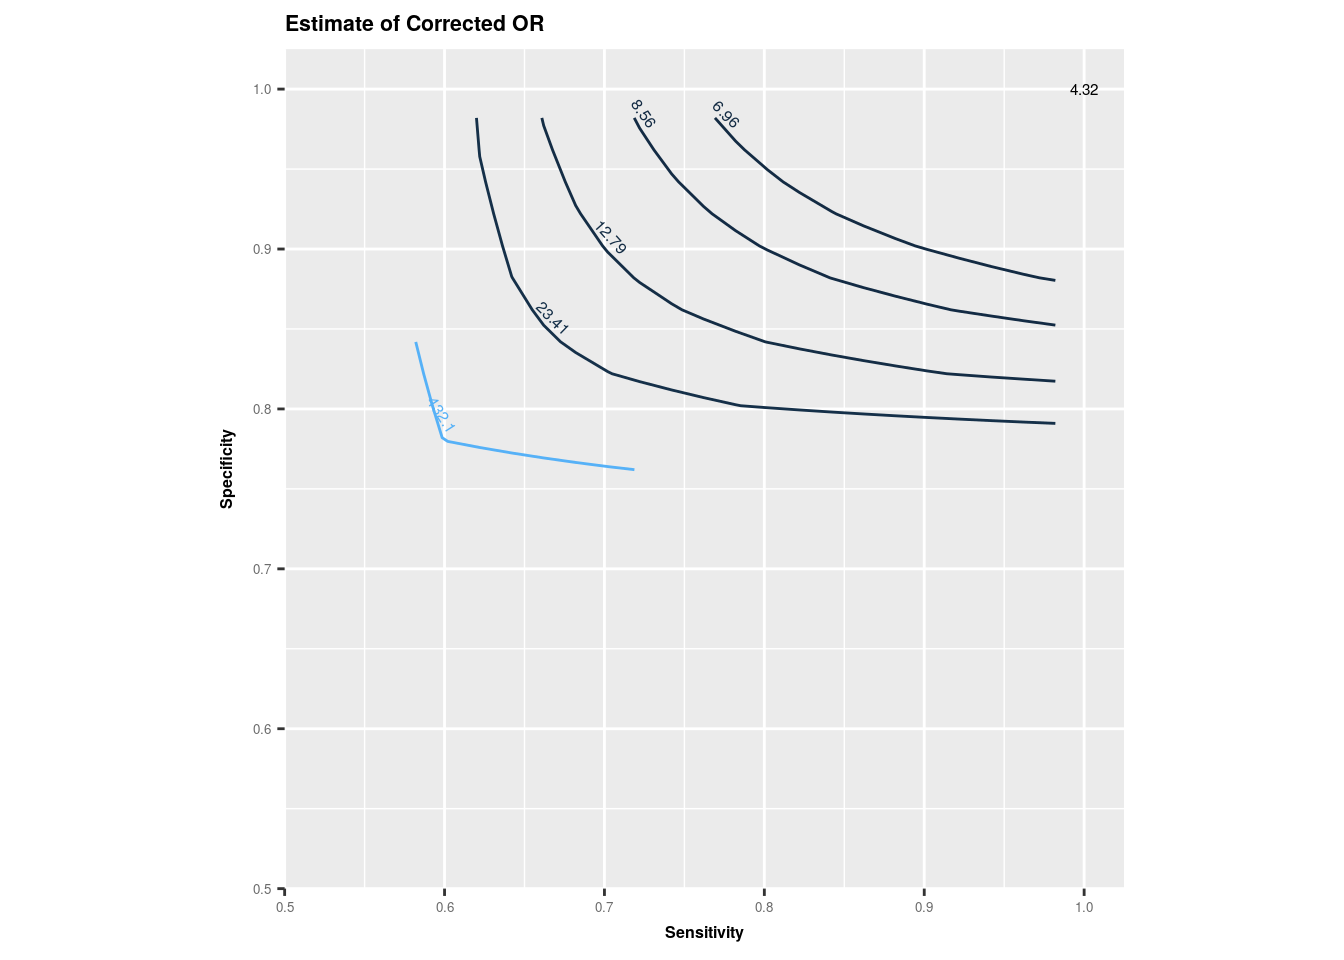
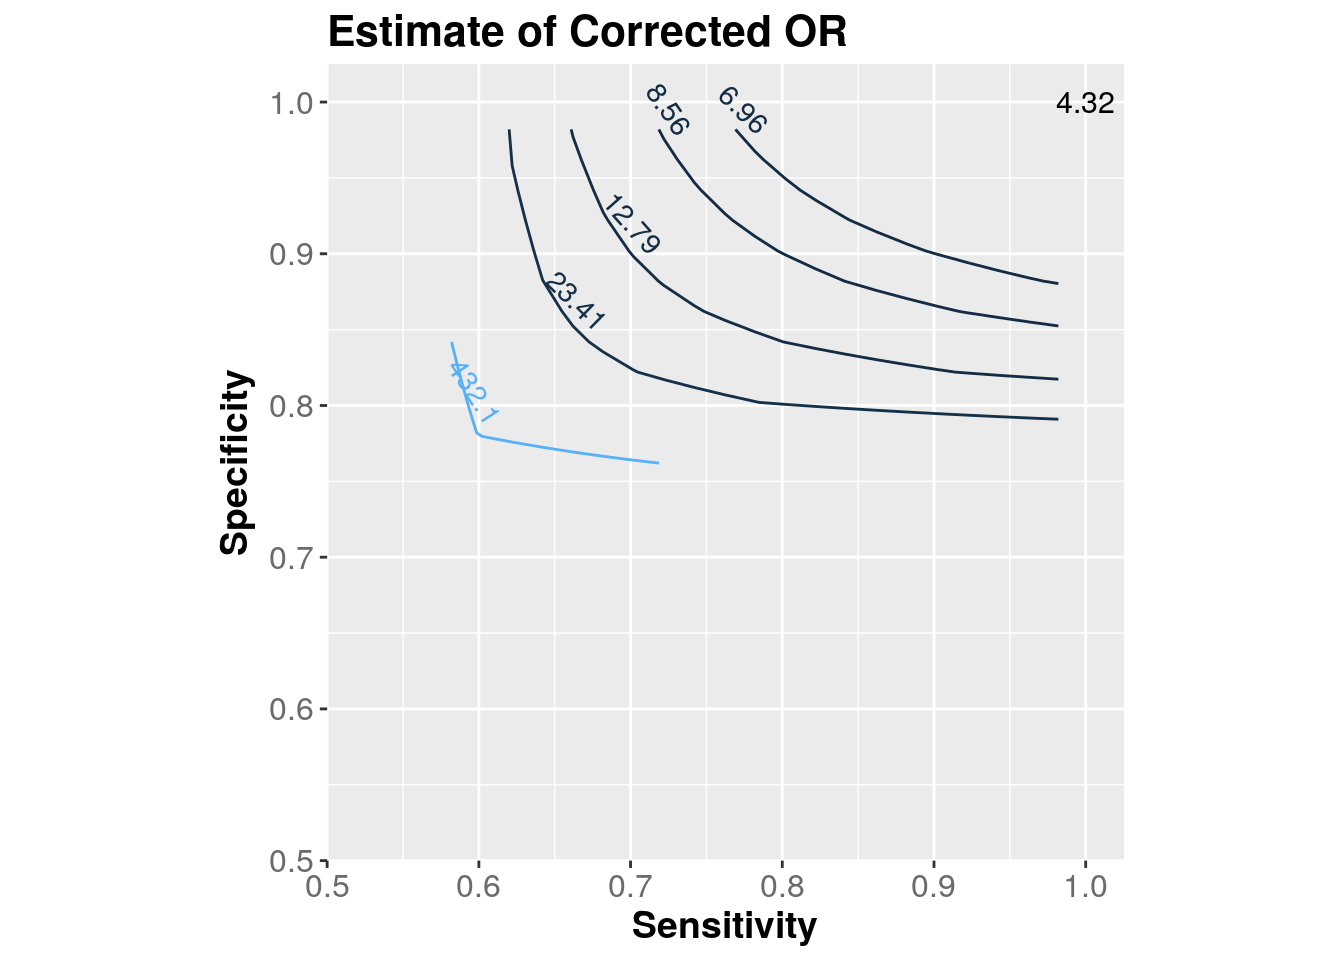
Fix plots in episensr 0.9.0 blog post

diff --git a/content/post/2017-08-21-episensr-090.html b/content/post/2017-08-21-episensr-090.html
@@ -95,24 +95,29 @@ library(ggplot2)
 library(directlabels)
 p1 &lt;- ggplot(dat, aes(x = Se, y = Sp, z = OR_c)) +
     geom_contour(aes(colour = ..level..), breaks = c(4.32, 6.96, 8.56, 12.79, 23.41, 432.1)) +
-    annotate(&quot;text&quot;, x = 1, y = 1, label = &quot;4.32&quot;, size = 2) +
+    annotate(&quot;text&quot;, x = 1, y = 1, label = &quot;4.32&quot;, size = 4) +
     scale_fill_gradient(limits = range(dat$OR_c), high = &#39;red&#39;, low = &#39;green&#39;) +
     scale_x_continuous(breaks = seq(0.5, 1, .1), expand = c(0,0)) +
     scale_y_continuous(breaks = seq(0.5, 1, .1), expand = c(0,0)) +
     coord_fixed(ylim = c(0.5, 1.025), xlim = c(0.5, 1.025)) +
     scale_colour_gradient(guide = &#39;none&#39;) +
-    theme(plot.title = element_text(face = &quot;bold&quot;, size = 8),
-          axis.title = element_text(face=&quot;bold&quot;, size = 6),
-          axis.text.y = element_text(colour=&quot;grey42&quot;, size = 5),
-          axis.text.x = element_text(colour=&quot;grey42&quot;, size = 5),
+    theme(plot.title = element_text(face = &quot;bold&quot;, size = 16),
+          axis.title = element_text(face=&quot;bold&quot;, size = 14),
+          axis.text.y = element_text(colour=&quot;grey42&quot;, size = 12),
+          axis.text.x = element_text(colour=&quot;grey42&quot;, size = 12),
           legend.position = &quot;none&quot;) +
     xlab(&quot;Sensitivity&quot;) +
     ylab(&quot;Specificity&quot;) +
     ggtitle(&quot;Estimate of Corrected OR&quot;)
 direct.label(p1, list(&quot;far.from.others.borders&quot;, &quot;calc.boxes&quot;, &quot;enlarge.box&quot;, 
-                           hjust=1, vjust=-.5, box.color = NA, cex = .5,
+                           hjust=1, vjust=-.5, box.color = NA, cex = .9,
                            fill = &quot;transparent&quot;, &quot;draw.rects&quot;))</code></pre>
-<p><img src="/"http://denishaine.ca/"  # End your URL with a `/` trailing slash.post/2017-08-21-episensr-090_files/figure-html/unnamed-chunk-3-1.png" width="672" /></p>
+<div class="figure"><span id="fig:unnamed-chunk-3"></span>
+<img src="/post/2017-08-21-episensr-090_files/figure-html/unnamed-chunk-3-1.png" alt="Contour plot of point estimate of corrected odds ratio (OR)" width="672" />
+<p class="caption">
+Figure 1: Contour plot of point estimate of corrected odds ratio (OR)
+</p>
+</div>
 <pre class="r"><code>dat$ORc_lci &lt;- apply(dat, 1,
                      function(x) misclassification(matrix(c(126, 92, 71, 224),
                                                           nrow = 2, byrow = TRUE),
@@ -123,21 +128,26 @@ dat$ORc_lci &lt;- round(dat$ORc_lci, 2)
 p3 &lt;- ggplot(dat, aes(x = Se, y = Sp, z = ORc_lci)) +
     geom_contour(aes(colour = ..level..),
                  breaks = c(4.05, 4.64, 5.68, 7.00, 9.60)) +
-    annotate(&quot;text&quot;, x = 1, y = 1, label = &quot;2.96&quot;, size = 2) +
+    annotate(&quot;text&quot;, x = 1, y = 1, label = &quot;2.96&quot;, size = 4) +
     scale_fill_gradient(limits = range(dat$ORc_lci), high = &#39;red&#39;, low = &#39;green&#39;) +
     scale_x_continuous(breaks = seq(0.5, 1, .1), expand = c(0,0)) +
     scale_y_continuous(breaks = seq(0.5, 1, .1), expand = c(0,0)) +
     coord_fixed(ylim = c(0.5, 1.025), xlim = c(0.5, 1.025)) +
     scale_colour_gradient(guide = &#39;none&#39;) +
-    theme(plot.title = element_text(face = &quot;bold&quot;, size = 8),
-          axis.title = element_text(face=&quot;bold&quot;, size = 6),
-          axis.text.y = element_text(colour=&quot;grey42&quot;, size = 5),
-          axis.text.x = element_text(colour=&quot;grey42&quot;, size = 5),
+    theme(plot.title = element_text(face = &quot;bold&quot;, size = 16),
+          axis.title = element_text(face=&quot;bold&quot;, size = 14),
+          axis.text.y = element_text(colour=&quot;grey42&quot;, size = 12),
+          axis.text.x = element_text(colour=&quot;grey42&quot;, size = 12),
           legend.position = &quot;none&quot;) +
     xlab(&quot;Sensitivity&quot;) +
     ylab(&quot;Specificity&quot;) +
     ggtitle(&quot;95% LCI of Corrected OR&quot;)
 direct.label(p3, list(&quot;far.from.others.borders&quot;, &quot;calc.boxes&quot;, &quot;enlarge.box&quot;, 
-                           hjust=1, vjust=-.5, box.color = NA, cex = .5,
+                           hjust=1, vjust=-.5, box.color = NA, cex = .9,
                            fill = &quot;transparent&quot;, &quot;draw.rects&quot;))</code></pre>
-<p><img src="/"http://denishaine.ca/"  # End your URL with a `/` trailing slash.post/2017-08-21-episensr-090_files/figure-html/unnamed-chunk-4-1.png" width="672" /></p>
+<div class="figure"><span id="fig:unnamed-chunk-4"></span>
+<img src="/post/2017-08-21-episensr-090_files/figure-html/unnamed-chunk-4-1.png" alt="Contour plot of 95% lower confidence limit of corrected OR" width="672" />
+<p class="caption">
+Figure 2: Contour plot of 95% lower confidence limit of corrected OR
+</p>
+</div>
